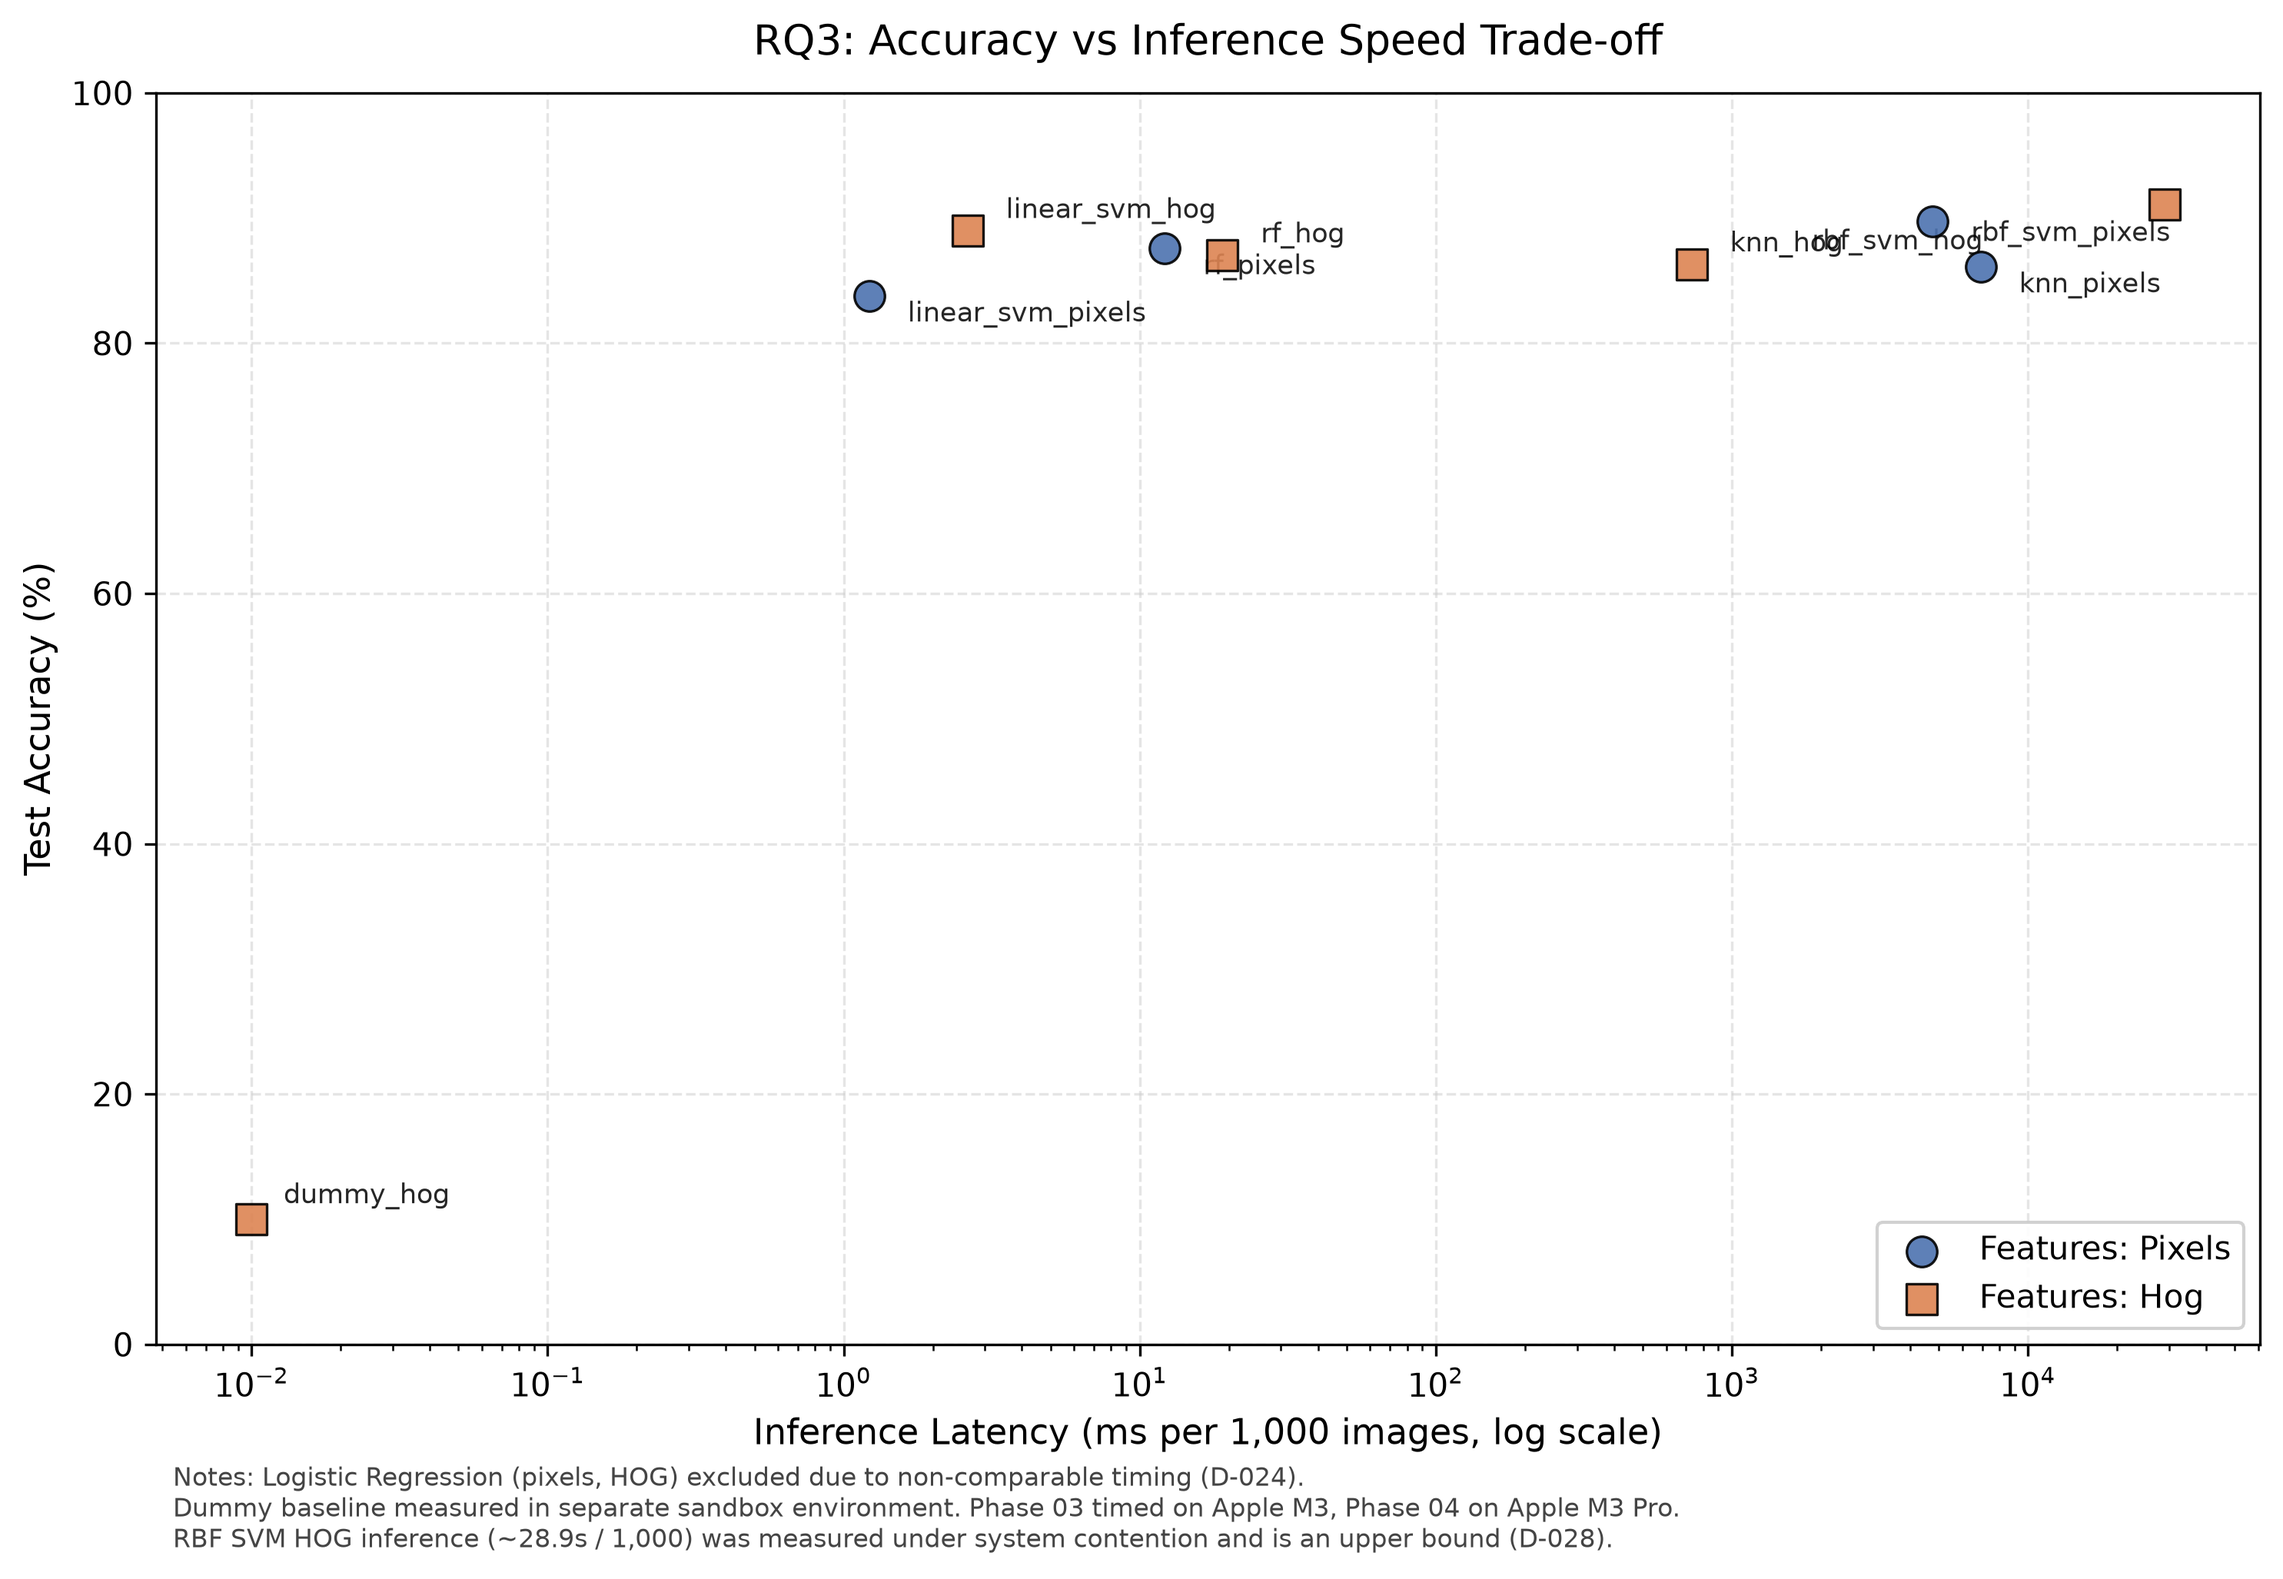
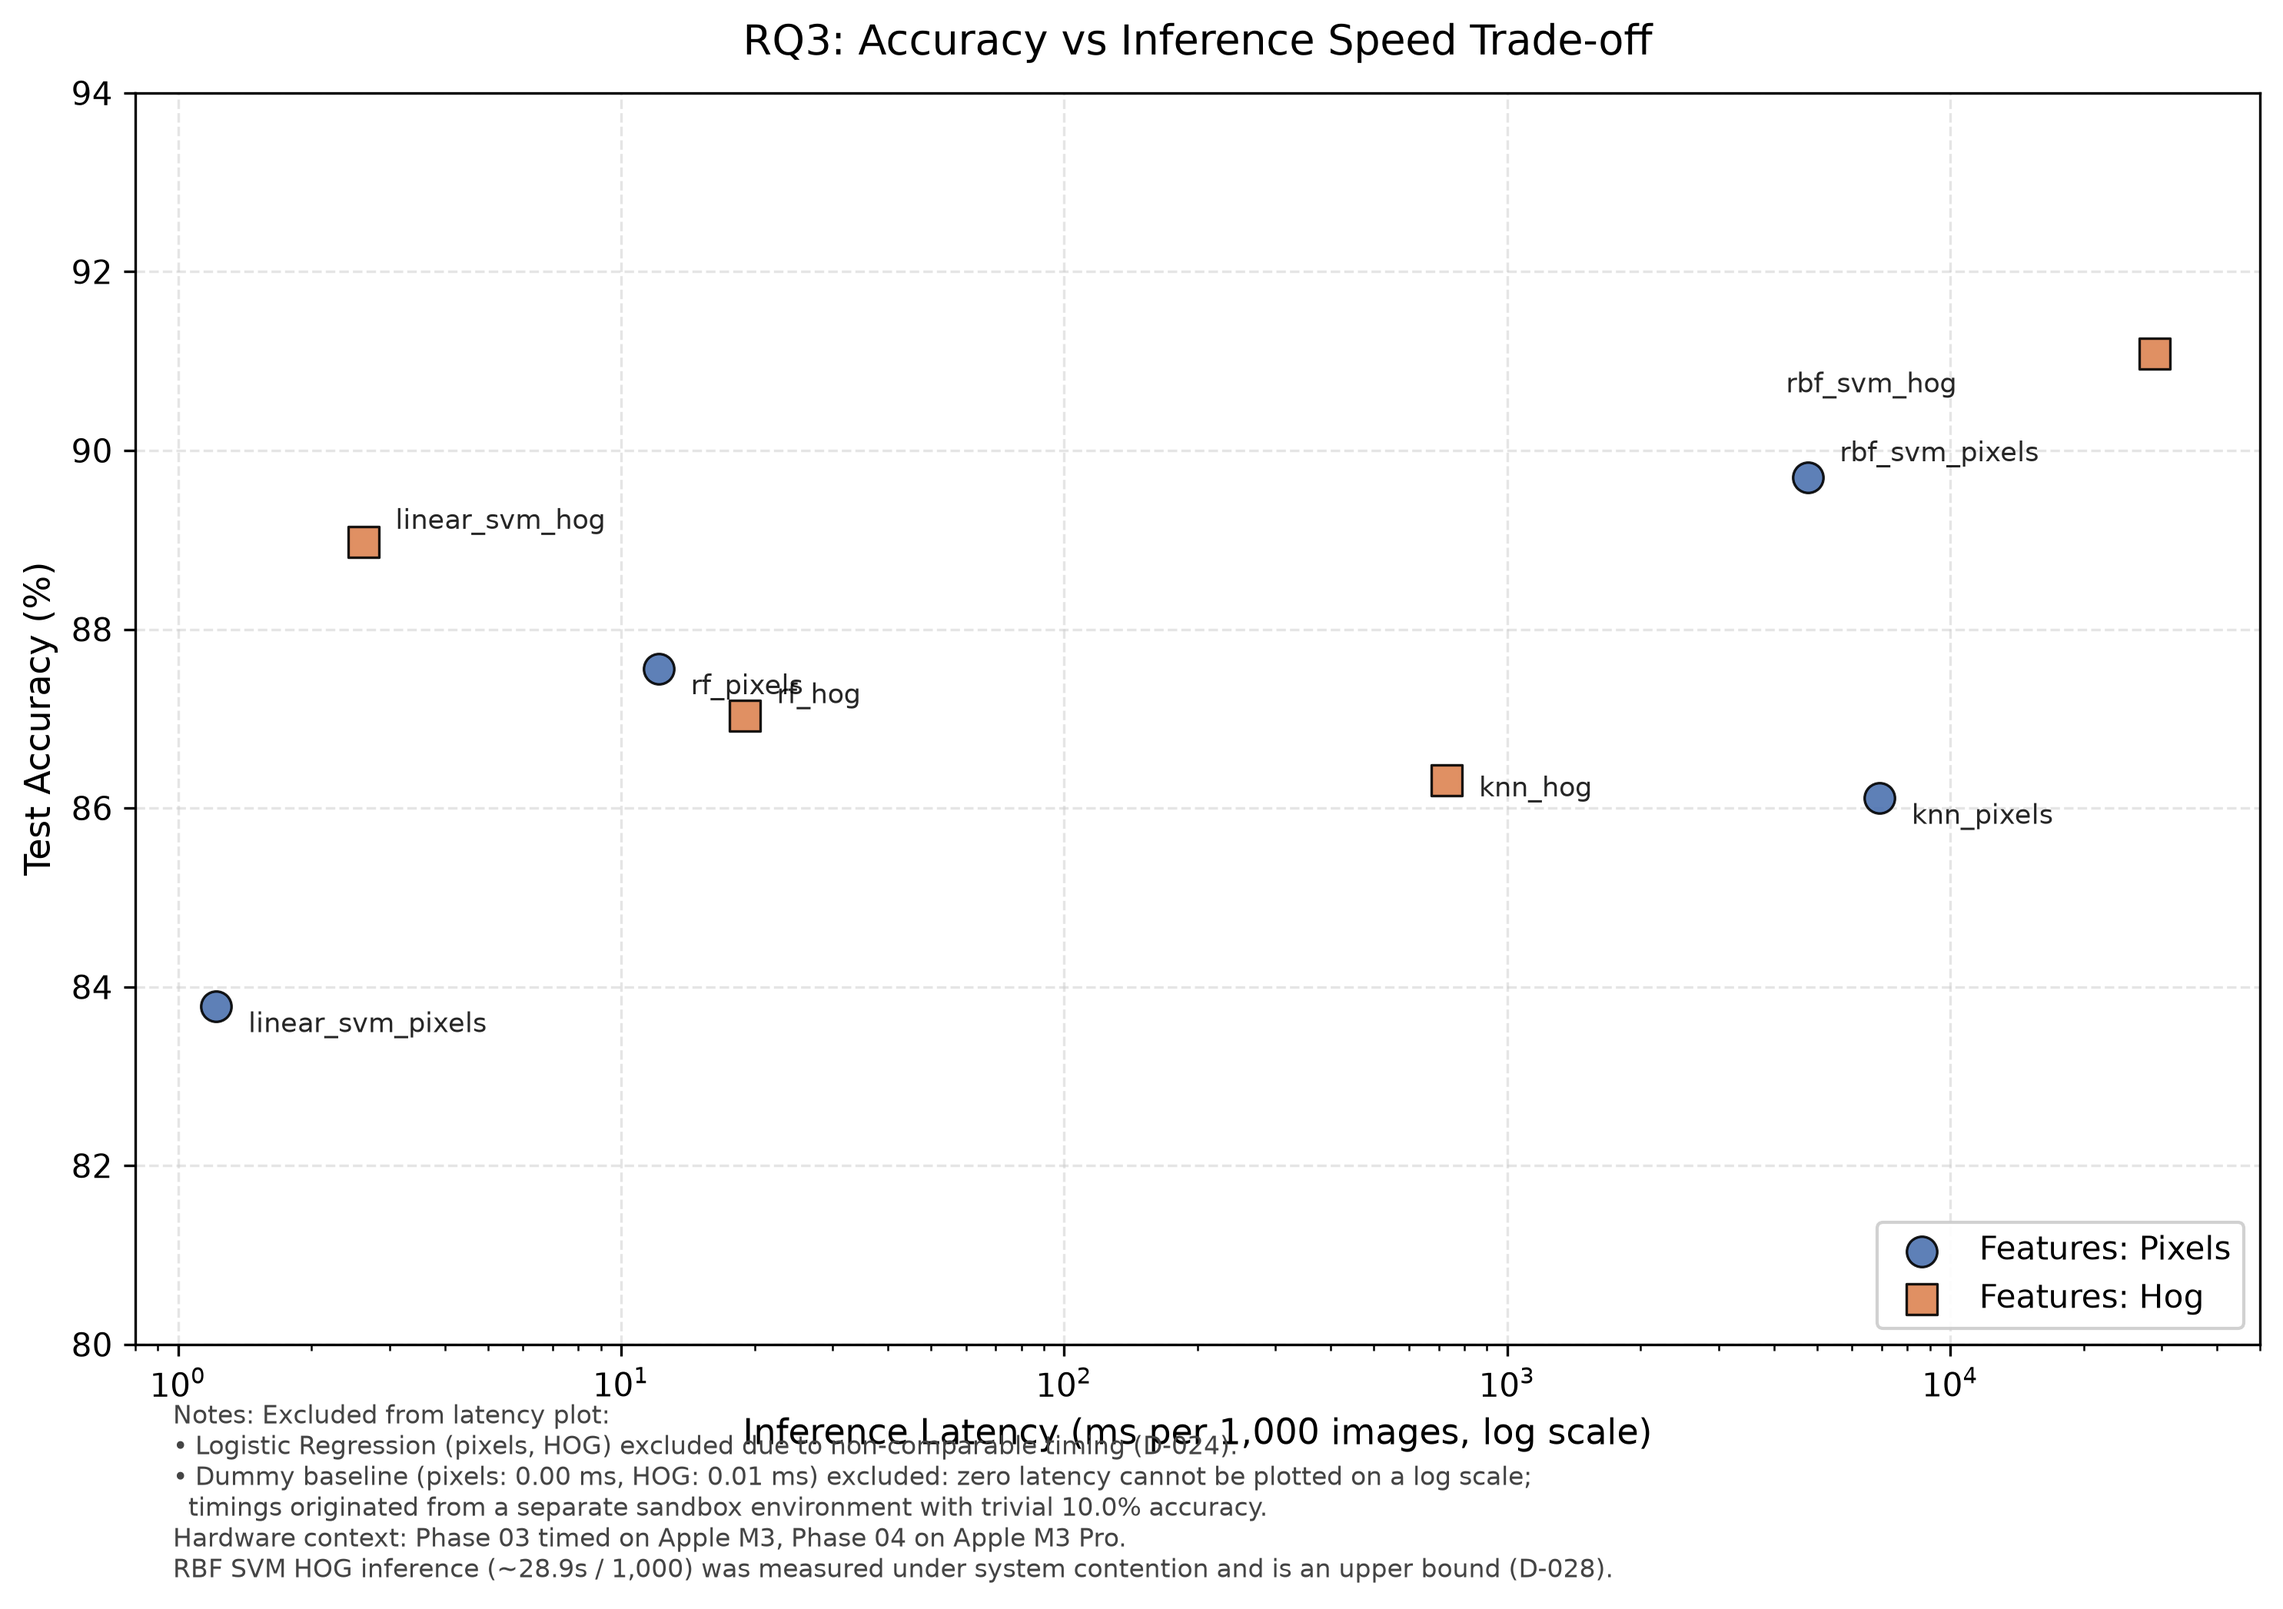
fix(results): handle dummy zero latency on log axis and update D-030

diff --git a/src/results.py b/src/results.py
@@ -242,12 +242,19 @@ def plot_pixels_vs_hog(df: pd.DataFrame) -> plt.Figure:
 def plot_acc_vs_inference(df: pd.DataFrame) -> plt.Figure:
     """Scatter plot of Test Accuracy vs Inference Latency (RQ3).
 
-    Excludes experiments where timing_comparable=false (D-024).
+    Excludes experiments where timing_comparable=false (D-024) and the dummy
+    baseline where zero latency (dummy_pixels = 0.00 ms) cannot be displayed
+    on a logarithmic scale (dummy_hog is also excluded to focus on candidate models).
+    Preserves original measurements in results/summary.csv.
     Documents hardware differences (M3 vs M3 Pro) and RBF upper bound (D-028).
     Saves results/figures/results_acc_vs_time.png via utils.save_fig().
     """
-    # Exclude missing / non-comparable timing
-    valid_df = df[df["inference_ms_per_1000"].notna()].copy()
+    # Exclude non-comparable timing (D-024) and dummy baseline with zero/near-zero latency
+    valid_df = df[
+        df["inference_ms_per_1000"].notna()
+        & (df["inference_ms_per_1000"] > 0)
+        & (df["model"] != "dummy")
+    ].copy()
 
     fig, ax = plt.subplots(figsize=(10, 6.5), dpi=config.FIGURE_DPI)
     ax.set_axisbelow(True)
@@ -257,16 +264,14 @@ def plot_acc_vs_inference(df: pd.DataFrame) -> plt.Figure:
     marker_map = {"pixels": "o", "hog": "s"}
 
     label_offsets = {
-        "dummy_pixels": (10, -5),
-        "dummy_hog": (10, 5),
-        "linear_svm_pixels": (12, -8),
-        "linear_svm_hog": (12, 4),
-        "rf_pixels": (12, -8),
-        "rf_hog": (12, 4),
-        "knn_pixels": (12, -8),
-        "knn_hog": (12, 4),
-        "rbf_svm_pixels": (12, -6),
-        "rbf_svm_hog": (-110, -14),
+        "linear_svm_pixels": (10, -8),
+        "linear_svm_hog": (10, 4),
+        "rf_pixels": (10, -8),
+        "rf_hog": (10, 4),
+        "knn_hog": (10, -5),
+        "knn_pixels": (10, -8),
+        "rbf_svm_pixels": (10, 5),
+        "rbf_svm_hog": (-115, -12),
     }
 
     for feat in ["pixels", "hog"]:
@@ -299,19 +304,23 @@ def plot_acc_vs_inference(df: pd.DataFrame) -> plt.Figure:
         )
 
     ax.set_xscale("log")
+    ax.set_xlim(0.8, 50000)
+    ax.set_ylim(80, 94)
     ax.set_xlabel("Inference Latency (ms per 1,000 images, log scale)", fontsize=11)
     ax.set_ylabel("Test Accuracy (%)", fontsize=11)
     ax.set_title("RQ3: Accuracy vs Inference Speed Trade-off", fontsize=13, pad=12)
-    ax.set_ylim(0, 100)
     ax.legend(frameon=True, facecolor="white", framealpha=0.9, loc="lower right", fontsize=10)
 
     # Footnote detailing exclusions and hardware context
     footnote = (
-        "Notes: Logistic Regression (pixels, HOG) excluded due to non-comparable timing (D-024).\n"
-        "Dummy baseline measured in separate sandbox environment. Phase 03 timed on Apple M3, Phase 04 on Apple M3 Pro.\n"
+        "Notes: Excluded from latency plot:\n"
+        "• Logistic Regression (pixels, HOG) excluded due to non-comparable timing (D-024).\n"
+        "• Dummy baseline (pixels: 0.00 ms, HOG: 0.01 ms) excluded: zero latency cannot be plotted on a log scale;\n"
+        "  timings originated from a separate sandbox environment with trivial 10.0% accuracy.\n"
+        "Hardware context: Phase 03 timed on Apple M3, Phase 04 on Apple M3 Pro.\n"
         "RBF SVM HOG inference (~28.9s / 1,000) was measured under system contention and is an upper bound (D-028)."
     )
-    plt.figtext(0.08, -0.04, footnote, wrap=True, horizontalalignment="left", fontsize=8, color="#444444")
+    plt.figtext(0.08, -0.06, footnote, wrap=True, horizontalalignment="left", fontsize=8, color="#444444")
 
     fig.tight_layout()
     utils.save_fig(fig, "results_acc_vs_time")

diff --git a/docs/decisions.md b/docs/decisions.md
@@ -1332,7 +1332,7 @@ Phase 05 aggregates the benchmark results across all 12 experiments into `result
 **Decision**
 1. In `src/results.py`: `pick_best_experiment()` and `build_summary()` determine validation accuracy by inspecting for `{experiment}_val_full.json` (created for subset-tuned models such as RBF SVM per D-029) and falling back to `best_val_acc` in `{experiment}_val.json`. Validation accuracy is never read from test data. The selection rule chooses `rbf_svm_hog` (val accuracy 0.9157).
 2. In `build_summary()`: When `timing_comparable` is False in the test JSON (for `logreg_pixels` and `logreg_hog`), `train_time_s` and `inference_ms_per_1000` are emitted as `NaN` (blank in CSV). Zero is never substituted.
-3. In `plot_acc_vs_inference()`: Filter out rows with `NaN` timing, explicitly stating the exclusion in a footnote, alongside cross-phase hardware notes (Phase 03 on Apple M3 vs Phase 04 on Apple M3 Pro; Dummy sandbox environment) and RBF SVM HOG inference upper bound (D-028).
+3. In `plot_acc_vs_inference()`: Filter out rows with `NaN` timing (Logistic Regression per D-024) and the dummy baseline where zero latency (`dummy_pixels` has 0.00 ms measured latency) is mathematically undefined on a logarithmic axis. Preserves original measurements in `results/summary.csv` and source JSONs without substitution, and explicitly states all exclusions in the figure footnote alongside cross-phase hardware notes (Phase 03 on Apple M3 vs Phase 04 on Apple M3 Pro; Dummy sandbox environment) and RBF SVM HOG inference upper bound (D-028).
 4. In `cross_validate_best()` (Task 05.3): Stratified 5-fold cross-validation is performed strictly on `trainval` (10,000 stratified subset for RBF SVM per D-005 and D-027), never touching the test set.
 
 **Alternatives considered**
@@ -1340,6 +1340,7 @@ Phase 05 aggregates the benchmark results across all 12 experiments into `result
 |---|---|
 | Pick the best model using test accuracy | Information leakage: invalidates test set as an unbiased performance estimator |
 | Substitute 0.0 or mean values for contaminated LR timings | Distortion: 0 ms suggests instantaneous inference; violates benchmark accuracy |
+| Substitute an arbitrary small positive number (e.g. 0.001) for dummy zero latency | Falsifies measurement: original metrics must be preserved truthfully; mathematical incompatibilities on log scales are properly handled via documented exclusion |
 | Discard the entire LR experiments from summary table | Unnecessary: predictive metrics (accuracy, F1, class recall) remain fully valid and informative |
 | Run 5-fold CV on all 60k images for RBF SVM | Computationally prohibitive (~35–45 minutes); 10k stratified subset is the pre-registered protocol (D-005, D-027) |
 
